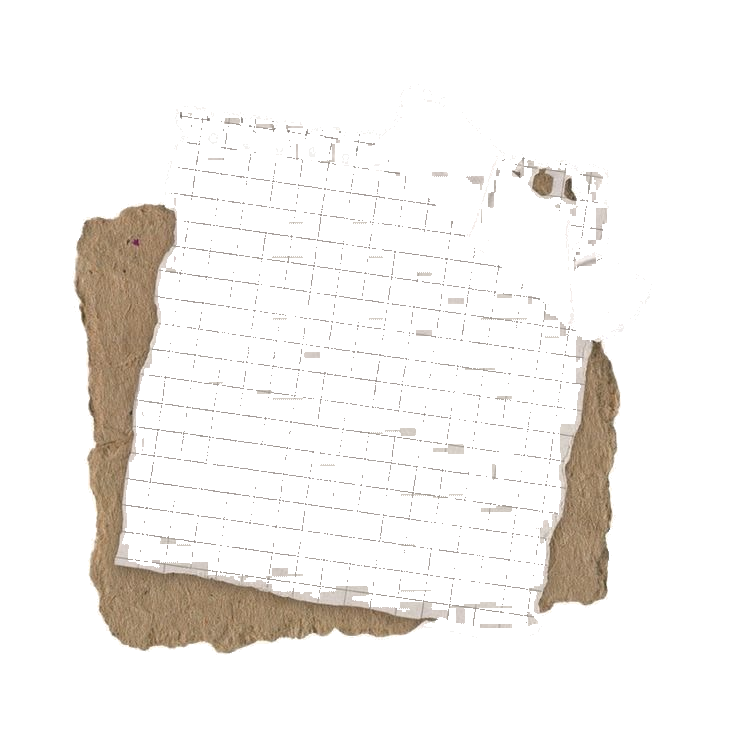
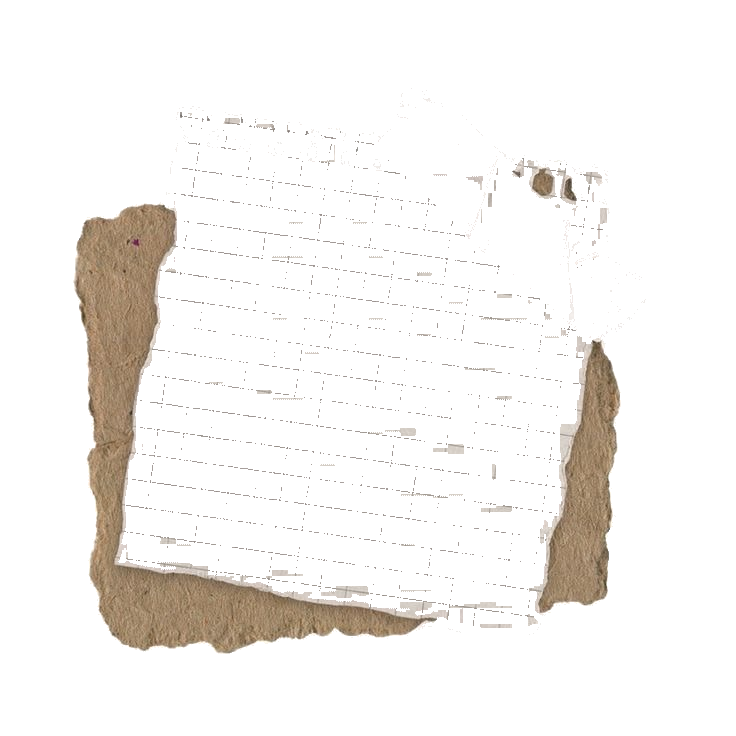
style: Narrow margins and align text tilt for Kraft torn grid paper note (paper_note_2)

diff --git a/src/components/StickyNote.tsx b/src/components/StickyNote.tsx
@@ -26,7 +26,7 @@ export function StickyNote({ item }: { item: StickyNoteItem }) {
     },
     2: {
       width: "w-52 sm:w-64 md:w-76",
-      containerClass: "top-[22%] left-[30%] right-[18%] bottom-[14%]",
+      containerClass: "top-[24%] left-[34%] right-[24%] bottom-[16%] rotate-[-2deg]",
       titleColor: "text-stone-950 font-sans font-black text-[9px] sm:text-[10px] tracking-wider",
       textColor: "text-zinc-950 font-['Caveat',cursive] text-sm sm:text-base md:text-lg font-extrabold leading-snug",
     },
